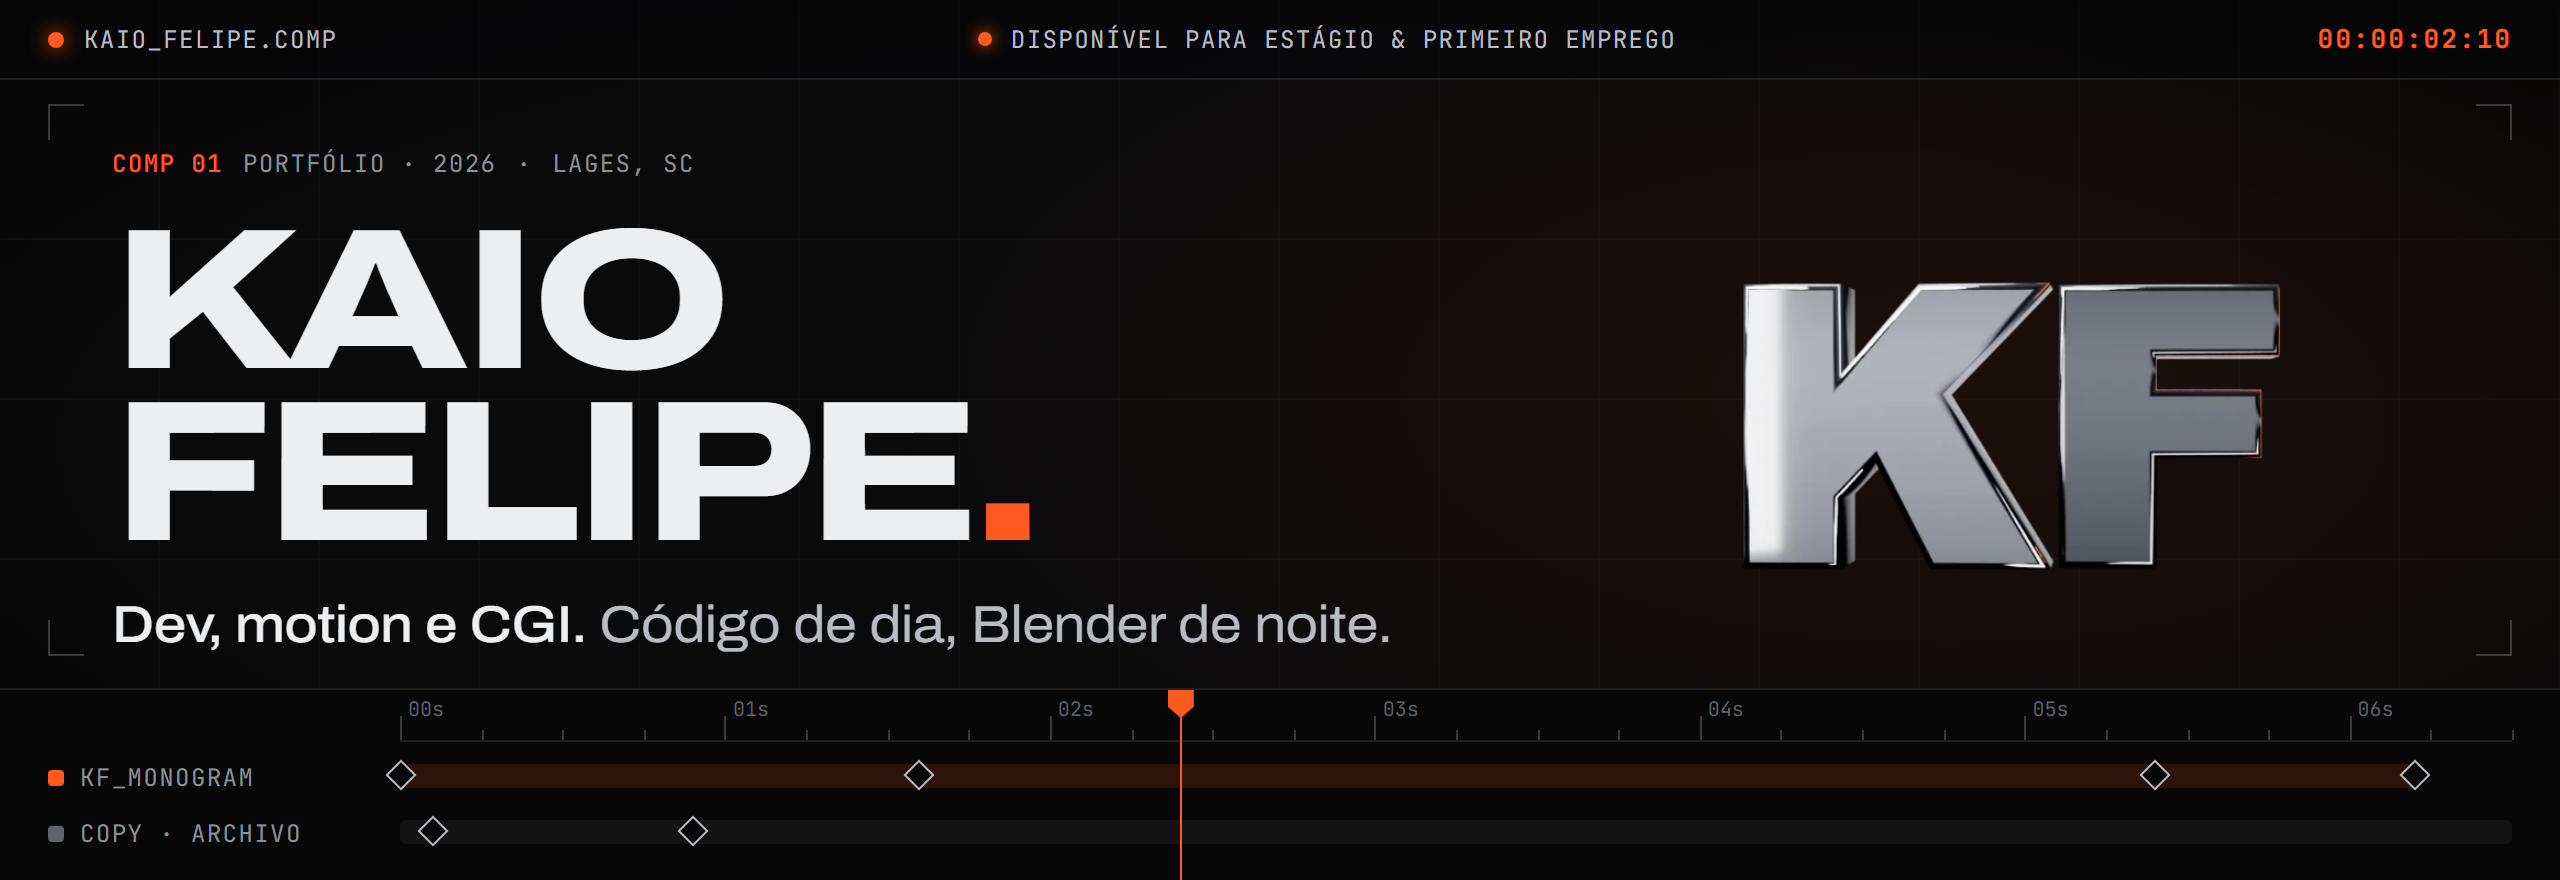
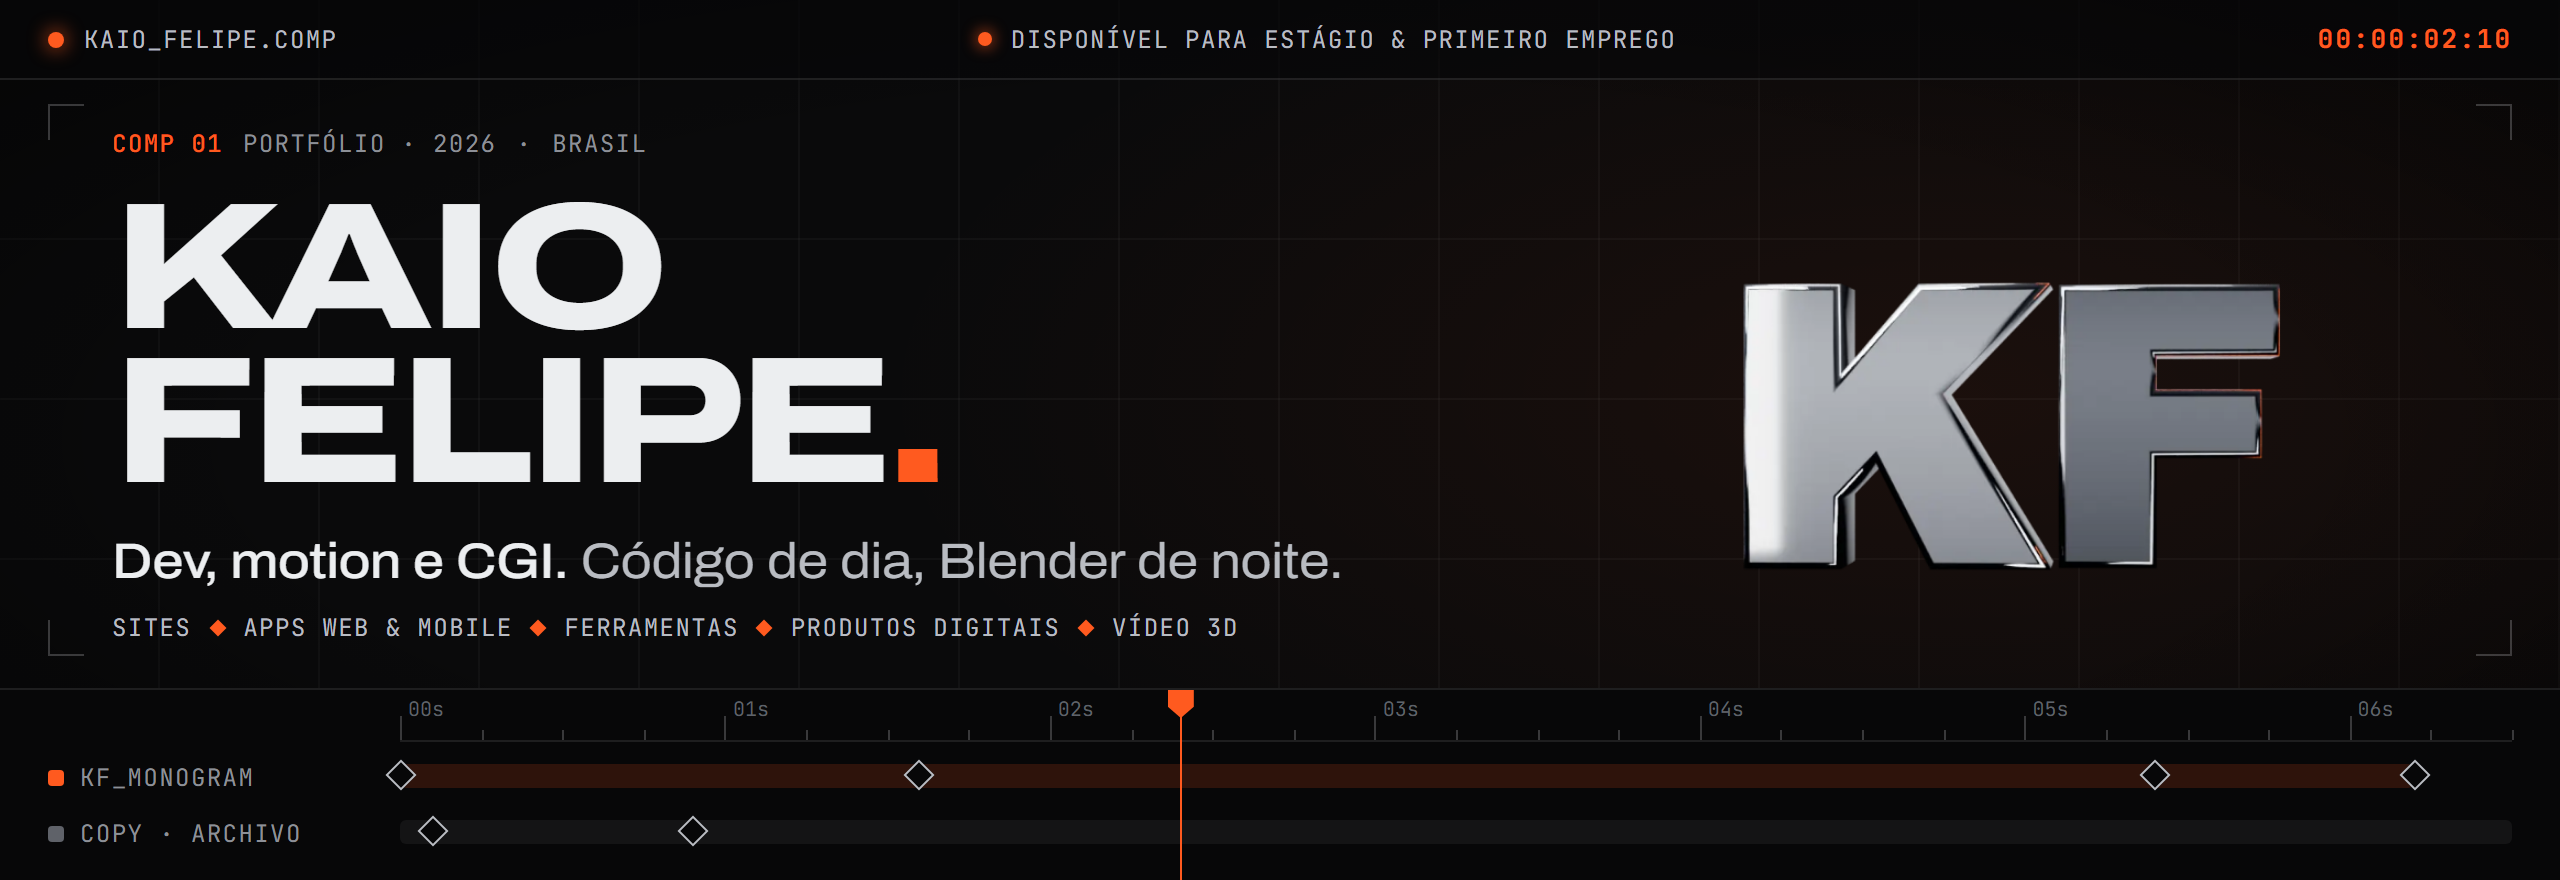
Add tools panel, generalist intro and Brasil label
Banner now reads "Brasil" instead of the city and lists what I build
(sites, web and mobile apps, tools, digital products, 3D video). The
stack chips become a rendered "Painel de efeitos" image with icons.

Changed region(s): [[0.0312, 0.1534, 0.5625, 0.7364]]

diff --git a/assets/src/tools.html b/assets/src/tools.html
@@ -1,0 +1,67 @@
+<!doctype html>
+<html lang="pt-BR">
+<head>
+<meta charset="utf-8">
+<link rel="stylesheet" href="https://fonts.googleapis.com/css2?family=Archivo:wdth,wght@62..125,100..900&family=JetBrains+Mono:wght@400;500;700&display=block">
+<style>
+  :root { --ink-950: #070708; --ink-900: #0a0a0b; --ink-800: #121214; --ink-700: #1a1a1d;
+    --paper: #eceef0; --paper-dim: #b9bcc2; --muted: #8d9097; --muted-2: #5f6269; --signal: #ff5a1f;
+    --line: rgb(236 238 240 / 0.1); --line-strong: rgb(236 238 240 / 0.22); }
+  * { box-sizing: border-box; margin: 0; padding: 0; }
+  html, body { width: 1280px; background: transparent; }
+  body { font-family: "Archivo", sans-serif; color: var(--paper); -webkit-font-smoothing: antialiased; }
+  .panel { background: var(--ink-900); border: 1px solid var(--line-strong); border-radius: 10px; overflow: hidden; }
+  .mono { font-family: "JetBrains Mono", monospace; font-size: 12px; letter-spacing: .06em; text-transform: uppercase; }
+  .bar { height: 40px; display: flex; align-items: center; justify-content: space-between; padding: 0 20px;
+    border-bottom: 1px solid var(--line); background: var(--ink-950); color: var(--muted); }
+  .bar .l { display: flex; gap: 10px; align-items: center; color: var(--paper-dim); }
+  .bar .l b { color: var(--signal); font-weight: 500; }
+  .search { display: flex; align-items: center; gap: 8px; border: 1px solid var(--line-strong); border-radius: 4px; padding: 4px 10px; color: var(--muted-2); min-width: 220px; }
+  .search i { width: 9px; height: 9px; border: 1.5px solid var(--muted); border-radius: 50%; position: relative; }
+  .cols { display: grid; grid-template-columns: repeat(5, 1fr); }
+  .col { padding: 18px 18px 22px; border-right: 1px solid var(--line); }
+  .col:last-child { border-right: 0; }
+  .g { display: flex; align-items: center; gap: 8px; color: var(--paper); font-weight: 700; font-size: 15px; font-variation-settings: "wdth" 115; margin-bottom: 12px; }
+  .g::before { content: ""; width: 0; height: 0; border-top: 5px solid var(--signal); border-left: 4px solid transparent; border-right: 4px solid transparent; }
+  .g small { margin-left: auto; color: var(--muted-2); font-family: "JetBrains Mono", monospace; font-size: 11px; font-weight: 400; }
+  .it { display: flex; align-items: center; gap: 11px; height: 34px; padding: 0 8px; margin: 0 -8px; border-radius: 4px; color: var(--paper-dim); font-size: 15px; }
+  .it:nth-child(odd) { background: rgb(236 238 240 / .025); }
+  .ic { width: 20px; height: 20px; flex: none; background: var(--paper); -webkit-mask: var(--u) center / contain no-repeat; mask: var(--u) center / contain no-repeat; }
+  .tx { width: 20px; height: 20px; flex: none; display: grid; place-items: center; border: 1.5px solid var(--paper); border-radius: 4px;
+    font-family: "JetBrains Mono", monospace; font-size: 9px; font-weight: 700; color: var(--paper); }
+  .foot { height: 34px; display: flex; align-items: center; gap: 18px; padding: 0 20px; border-top: 1px solid var(--line); background: var(--ink-950); color: var(--muted-2); }
+  .foot span b { color: var(--signal); font-weight: 500; }
+</style>
+</head>
+<body>
+<div class="panel">
+  <div class="bar mono">
+    <div class="l"><b>COMP 03</b>Painel de efeitos</div>
+    <div class="search"><i></i>Ferramentas que eu uso</div>
+  </div>
+  <div class="cols" id="cols"></div>
+  <div class="foot mono"><span><b>◆</b> do script ao render</span><span>·</span><span>código, interface, 3D e automação no mesmo pipeline</span></div>
+</div>
+<script>
+  const SI = (s) => `https://cdn.jsdelivr.net/npm/simple-icons@13.21.0/icons/${s}.svg`;
+  const DI = (s) => `https://cdn.jsdelivr.net/gh/devicons/devicon@v2.16.0/icons/${s}.svg`;
+  const groups = [
+    ["Linguagens", [["Java", DI("java/java-plain")], ["Python", SI("python")], ["JavaScript", SI("javascript")], ["TypeScript", SI("typescript")], ["HTML", SI("html5")], ["CSS", SI("css3")], ["SQL · MySQL", SI("mysql")]]],
+    ["Web & apps", [["React", SI("react")], ["Next.js", SI("nextdotjs")], ["Node.js", SI("nodedotjs")], ["Tailwind", SI("tailwindcss")], ["Bootstrap", SI("bootstrap")], ["GSAP", SI("greensock")], ["Vercel", SI("vercel")]]],
+    ["Motion & 3D", [["Blender", SI("blender")], ["Three.js", SI("threedotjs")], ["HyperFrames", "HF"], ["ffmpeg", SI("ffmpeg")], ["Figma", SI("figma")]]],
+    ["Ferramentas", [["Git", SI("git")], ["GitHub", SI("github")], ["VS Code", DI("vscode/vscode-plain")], ["IntelliJ IDEA", SI("intellijidea")], ["Docker", SI("docker")]]],
+    ["IA & automação", [["Claude Code", SI("claude")], ["GitHub Actions", SI("githubactions")], ["Playwright", DI("playwright/playwright-plain")], ["Ollama · LLM local", SI("ollama")], ["GitHub Copilot", SI("githubcopilot")]]],
+  ];
+  const cols = document.getElementById("cols");
+  for (const [name, items] of groups) {
+    const c = document.createElement("div"); c.className = "col";
+    c.innerHTML = `<div class="g">${name}<small>${String(items.length).padStart(2, "0")}</small></div>` +
+      items.map(([n, u]) => `<div class="it">${u.startsWith("http") ? `<span class="ic" style="--u:url('${u}')"></span>` : `<span class="tx">${u}</span>`}${n}</div>`).join("");
+    cols.appendChild(c);
+  }
+  const urls = groups.flatMap(([, i]) => i.map(([, u]) => u)).filter((u) => u.startsWith("http"));
+  window.ready = Promise.all([document.fonts.ready, ...urls.map((u) => new Promise((r) => { const im = new Image(); im.onload = im.onerror = r; im.src = u; }))])
+    .then(() => new Promise((r) => setTimeout(r, 300)));
+</script>
+</body>
+</html>

diff --git a/assets/src/banner.html b/assets/src/banner.html
@@ -33,13 +33,15 @@
   .tc { color: var(--signal); font-weight: 700; font-size: 13px; letter-spacing: .08em; }
 
   /* copy */
-  .copy { position: absolute; left: 56px; top: 74px; }
+  .copy { position: absolute; left: 56px; top: 64px; }
   .label { color: var(--muted); display: flex; gap: 10px; align-items: center; }
   .label b { color: var(--signal); font-weight: 500; }
-  h1 { font-weight: 800; font-variation-settings: "wdth" 125; font-size: 100px; line-height: .86; letter-spacing: -0.035em; margin-top: 18px; text-transform: uppercase; }
+  h1 { font-weight: 800; font-variation-settings: "wdth" 125; font-size: 90px; line-height: .86; letter-spacing: -0.035em; margin-top: 16px; text-transform: uppercase; }
   h1 .dot { color: var(--signal); }
-  .lead { margin-top: 18px; font-size: 26px; font-weight: 500; font-variation-settings: "wdth" 110; color: var(--paper); letter-spacing: -0.01em; }
+  .lead { margin-top: 16px; font-size: 25px; font-weight: 500; font-variation-settings: "wdth" 110; color: var(--paper); letter-spacing: -0.01em; }
   .lead span { color: var(--paper-dim); font-weight: 400; }
+  .what { margin-top: 12px; color: var(--paper-dim); display: flex; gap: 10px; align-items: center; }
+  .what i { width: 6px; height: 6px; background: var(--signal); transform: rotate(45deg); display: inline-block; }
   .avail { display: inline-flex; gap: 9px; align-items: center; color: var(--paper-dim); }
   .avail i { width: 7px; height: 7px; border-radius: 50%; background: var(--signal); box-shadow: 0 0 8px var(--signal); }
   .status { margin-top: 16px; display: inline-flex; gap: 10px; align-items: center; color: var(--paper-dim);
@@ -79,9 +81,10 @@
   </div>
 
   <div class="copy">
-    <div class="label mono"><b>COMP 01</b><span>Portfólio · 2026</span><span>·</span><span>Lages, SC</span></div>
+    <div class="label mono"><b>COMP 01</b><span>Portfólio · 2026</span><span>·</span><span>Brasil</span></div>
     <h1>Kaio<br>Felipe<span class="dot">.</span></h1>
     <p class="lead">Dev, motion e CGI. <span>Código de dia, Blender de noite.</span></p>
+    <div class="what mono">Sites<i></i>Apps web &amp; mobile<i></i>Ferramentas<i></i>Produtos digitais<i></i>Vídeo 3D</div>
   </div>
 
   <canvas id="mono" width="800" height="800"></canvas>

diff --git a/README.md b/README.md
@@ -1,7 +1,7 @@
 <a href="https://kaiohomem.github.io">
   <picture>
     <source media="(prefers-reduced-motion: reduce)" srcset="assets/banner-still.png">
-    <img src="assets/banner.webp" width="100%" alt="Kaio Felipe. Dev, motion e CGI. Código de dia, Blender de noite. Monograma KF em cromo renderizado no Blender, sobre uma timeline de edição com keyframes e playhead laranja.">
+    <img src="assets/banner.webp" width="100%" alt="Kaio Felipe. Dev, motion e CGI. Código de dia, Blender de noite. Sites, apps web e mobile, ferramentas, produtos digitais e vídeo 3D. Monograma KF em cromo renderizado no Blender, sobre uma timeline de edição com keyframes e playhead laranja.">
   </picture>
 </a>
 
@@ -9,11 +9,13 @@
 
 ## Sobre
 
-Eu sou o Kaio, tenho 19 anos e curso **Ciências da Computação no IFSC**, em Lages, SC. Construo sites, ferramentas e vídeos que funcionam de verdade, e capricho em cada frame: código de dia, Blender de noite.
+Eu sou o Kaio, tenho 19 anos e curso **Ciências da Computação no IFSC**, no Brasil. Construo coisas que funcionam de verdade, do código ao último frame: código de dia, Blender de noite.
+
+Na prática, isso vira **sites e landing pages**, **apps web e mobile**, **ferramentas e automações**, **produtos digitais** e **vídeos com motion e 3D**. Gosto de pegar uma ideia e levar até o ar, com interface caprichada, testes e deploy.
 
 Falo **inglês em nível C1** e estou aprendendo alemão. Procuro **estágio ou primeiro emprego** em desenvolvimento, motion ou as duas coisas juntas.
 
-<sub><i>EN · Computer Science student at IFSC (Brazil). I build websites, tools and videos, with Blender for the 3D. English C1, open to internships and a first job.</i></sub>
+<sub><i>EN · Computer Science student at IFSC, Brazil. I build websites, web and mobile apps, tools, digital products and 3D motion videos, from the first line of code to the final render. English C1, open to internships and a first job.</i></sub>
 
 <br>
 
@@ -36,10 +38,7 @@ Falo **inglês em nível C1** e estou aprendendo alemão. Procuro **estágio ou 
 
 ## Painel de efeitos
 
-**Linguagens** &nbsp; `Java` `Python` `JavaScript` `TypeScript` `HTML` `CSS` `SQL`<br>
-**Web** &nbsp; `React` `Next.js` `Node.js` `GSAP` `Tailwind`<br>
-**Motion & 3D** &nbsp; `Blender` `HyperFrames` `ffmpeg` `Three.js`<br>
-**Ferramentas** &nbsp; `Git` `GitHub Actions` `Playwright` `MySQL`
+<img src="assets/tools.png" width="100%" alt="Ferramentas que eu uso. Linguagens: Java, Python, JavaScript, TypeScript, HTML, CSS, SQL e MySQL. Web e apps: React, Next.js, Node.js, Tailwind, Bootstrap, GSAP e Vercel. Motion e 3D: Blender, Three.js, HyperFrames, ffmpeg e Figma. Ferramentas: Git, GitHub, VS Code, IntelliJ IDEA e Docker. IA e automação: Claude Code, GitHub Actions, Playwright, Ollama e GitHub Copilot.">
 
 <br>
 
